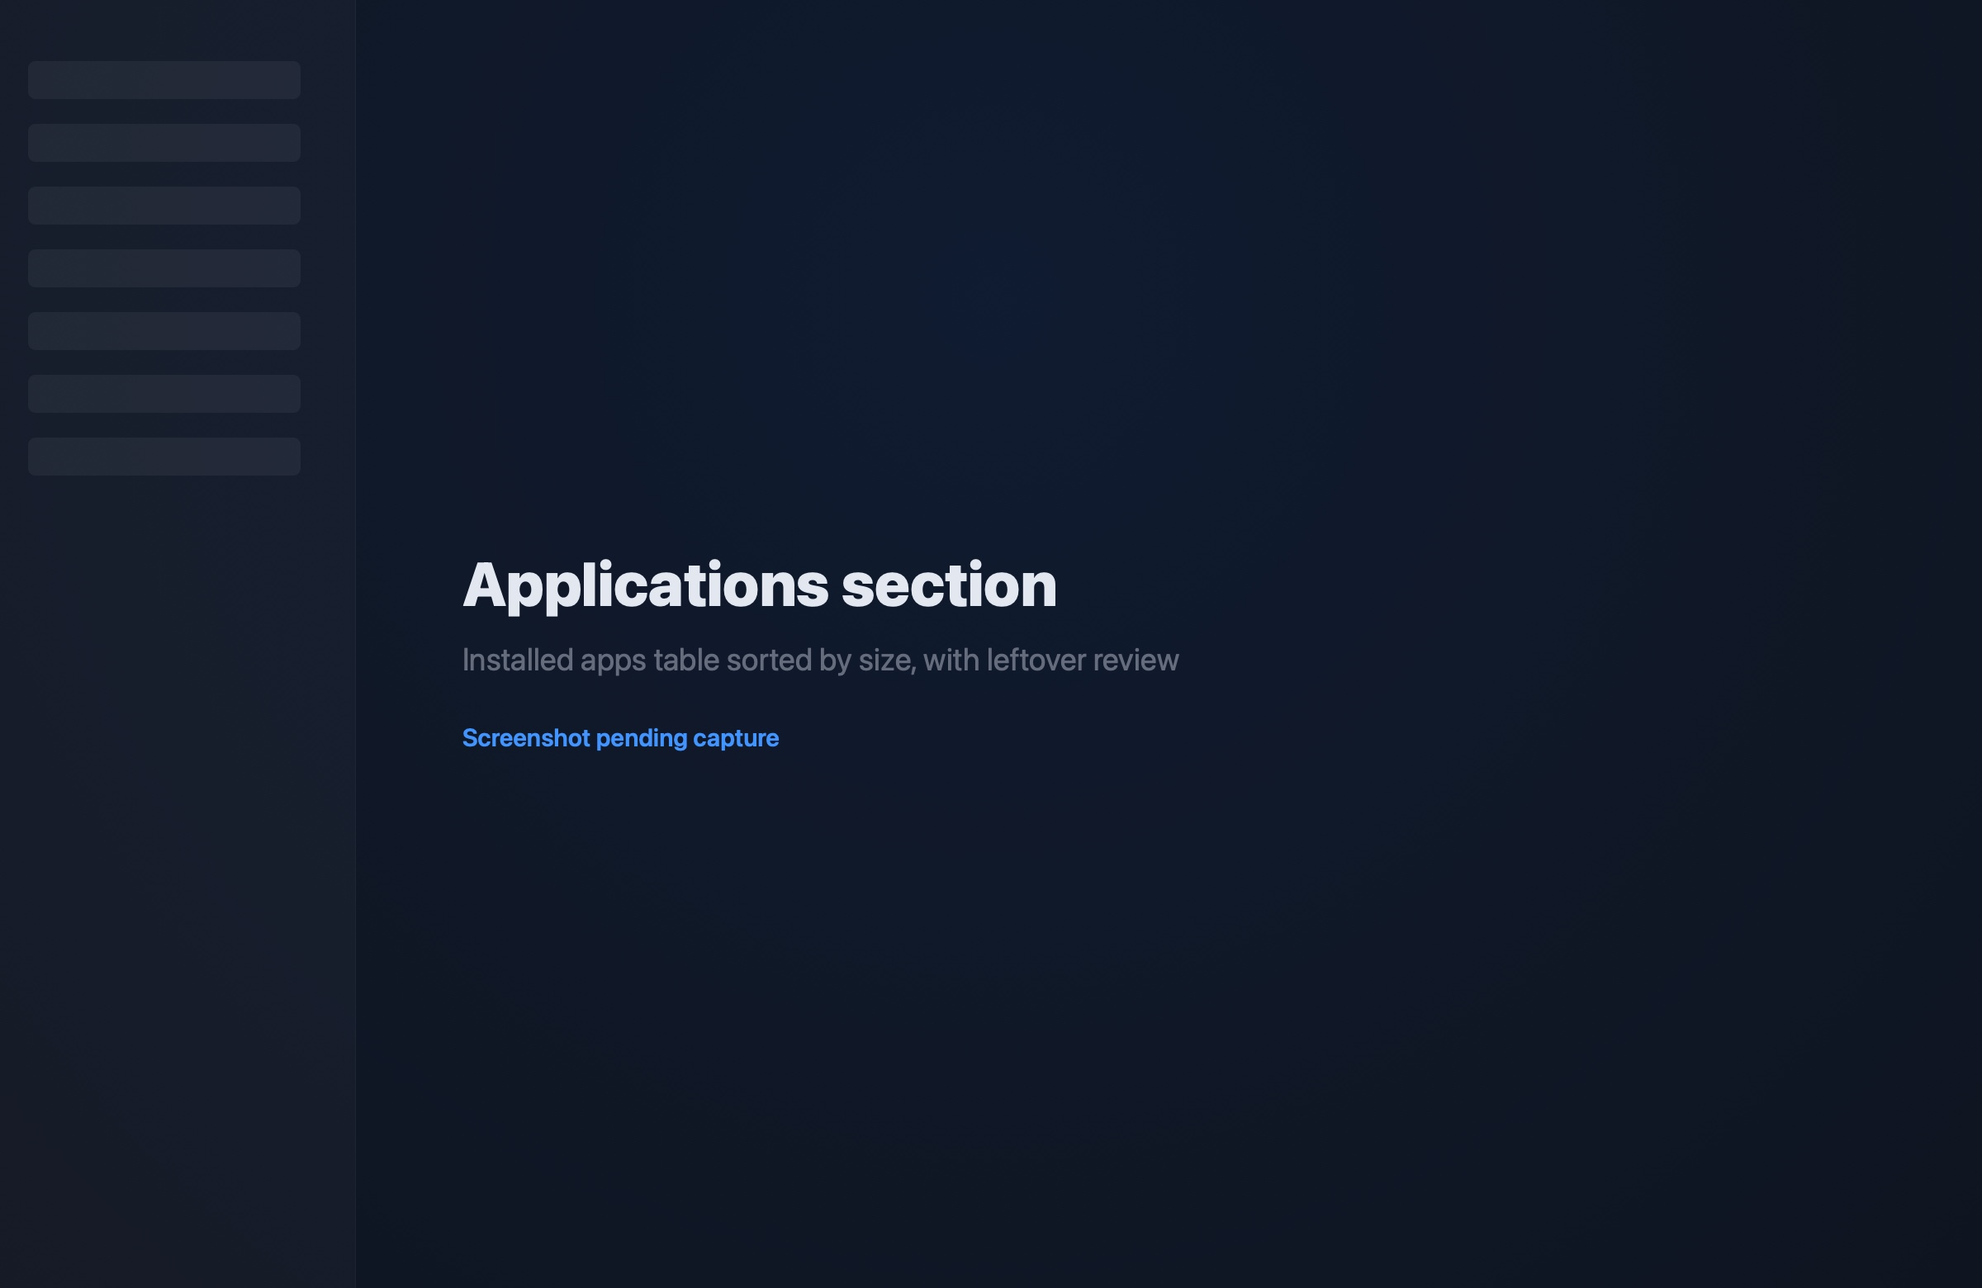
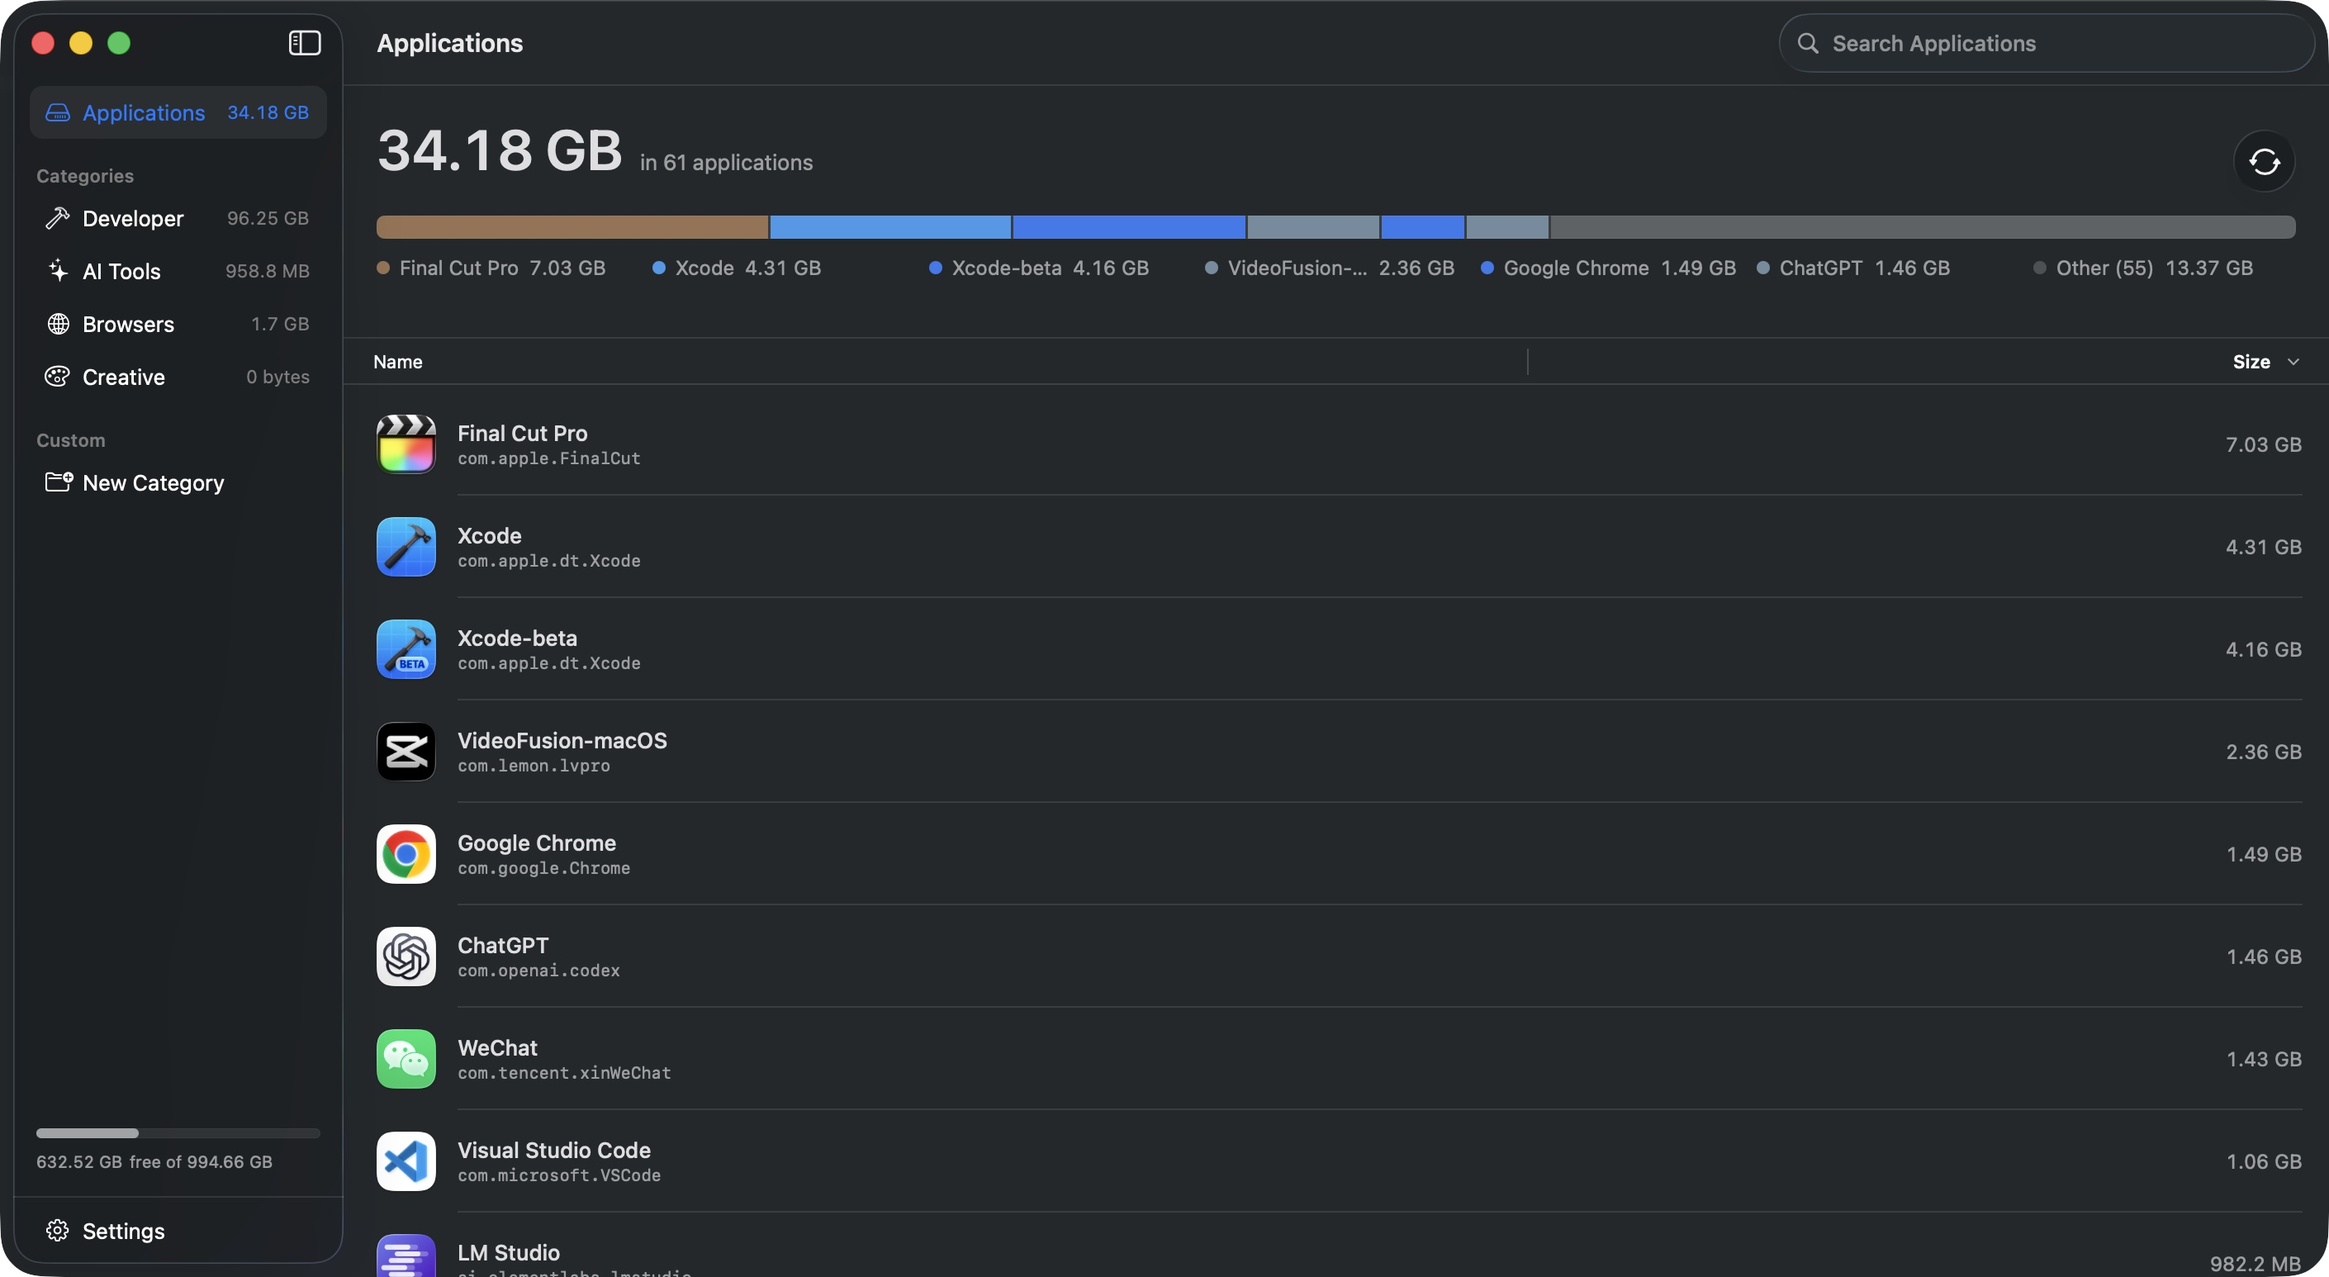
Put real screenshots in, and give the community a section
Four screenshots from the running app, in the order they matter:
Applications leads, then Developer, AI Tools and the category editor.

AI Tools is the one that earns its place. It shows Codex and Claude Code
session history found, measured and flagged red — paths that did not
exist eighteen months ago and are in no general cleaner's built-in list.
That is the difference from every other app in this category, and it is
worth a section of its own rather than a line in a feature grid.

The fake window chrome is gone. Every image already carries real traffic
lights and a real toolbar, so drawing our own above them gave each one
two title bars. `.window` is now a frame around a real window rather than
an imitation of one, which also looks better than the imitation did.

Applications moving to the hero left the uninstall copy without a picture,
so it now sits directly beneath the screenshot it describes, with its
list in two columns. It reads as an annotation of the image above it,
which is what it always was.

Community gets a section because the catalogue being public is a selling
point and was only ever mentioned in passing: three routes in — read it,
add a tool, report a bug — and the reason it is public at all.

The stat strip claimed 308 GB found and 234 GB of simulators, from a
different machine, directly above a screenshot showing neither. It now
cites what the images on this page actually show and invites the reader
[…]

diff --git a/web/index.html b/web/index.html
@@ -31,10 +31,11 @@
     </a>
     <div class="nav__links">
       <a href="#what">What it finds</a>
-      <a href="#uninstall">Uninstall</a>
+      <a href="#ai">AI Tools</a>
       <a href="#editions">Editions</a>
       <a href="#safety">Safety</a>
       <a href="#privacy">Privacy</a>
+      <a href="#community">Community</a>
       <a href="#pricing">Pricing</a>
     </div>
     <a class="btn btn--primary btn--sm" href="#download">Download</a>
@@ -73,11 +74,7 @@
 
   <div class="wrap hero__shot reveal">
     <div class="window">
-      <div class="window__bar">
-        <span class="window__dot"></span><span class="window__dot"></span><span class="window__dot"></span>
-        <span class="window__title">Easy Sweep — Developer</span>
-      </div>
-      <img src="/assets/shots/developer.jpg" alt="Easy Sweep showing the Developer section: a capacity bar split by size, with expandable rows for Derived Data, Device Support, simulators and toolchain caches." width="2400" height="1560">
+      <img src="/assets/shots/applications.jpg" alt="Easy Sweep's Applications section: 34.18 GB across 61 applications, with a capacity bar and a table of every installed app sorted by size." width="2820" height="1546">
     </div>
   </div>
 </header>
@@ -87,20 +84,20 @@
   <div class="wrap">
     <div class="stats reveal">
       <div class="stat">
-        <div class="stat__n">308 GB</div>
-        <p class="stat__l">Found on the Mac this app was written on</p>
-      </div>
-      <div class="stat">
-        <div class="stat__n">234 GB</div>
-        <p class="stat__l">Of that was simulators alone</p>
+        <div class="stat__n">99 GB</div>
+        <p class="stat__l">Found on the Mac in these screenshots &mdash; add up the sections yourself</p>
       </div>
       <div class="stat">
         <div class="stat__n">80+</div>
-        <p class="stat__l">Catalogued locations across four sections</p>
+        <p class="stat__l">Locations it knows about, every one of them listed publicly</p>
       </div>
       <div class="stat">
         <div class="stat__n">0</div>
         <p class="stat__l">Checkboxes ticked before you tick them</p>
+      </div>
+      <div class="stat">
+        <div class="stat__n">$0</div>
+        <p class="stat__l">To find all of it, and to clean every catalogued location</p>
       </div>
     </div>
   </div>
@@ -191,50 +188,90 @@
   </div>
 </section>
 
+<!-- ============ UNINSTALL (explains the hero shot above) ============ -->
+<section class="band" id="uninstall">
+  <div class="wrap">
+    <div class="sect-head sect-head--center">
+      <span class="eyebrow">Applications</span>
+      <h2>Uninstall an app, and the mess it leaves behind.</h2>
+      <p class="lede">
+        Every app above is one click from gone — along with its caches, containers,
+        preferences, saved state and launch agents. All of it goes to the Trash, so a
+        guess is always reversible.
+      </p>
+    </div>
+    <ul class="ticks ticks--cols reveal">
+      <li><strong>Three levels of confidence.</strong> A bundle identifier is certain. An exact filename is likely. A whole-word name match is only possible &mdash; and labelled as such.</li>
+      <li><strong>It won&rsquo;t take a neighbour&rsquo;s data.</strong> Word boundaries so &ldquo;Steam&rdquo; never claims SteamVR, a four-character minimum, and shared vendor folders are off limits.</li>
+      <li><strong>Inside <code>Containers</code>, only a bundle id counts.</strong> Matching an app&rsquo;s name against a reverse-DNS string is a coincidence, not evidence.</li>
+      <li><strong>System apps are refused outright.</strong> They can&rsquo;t be uninstalled, so listing your Mail data would be pointless and alarming.</li>
+    </ul>
+  </div>
+</section>
+
 <!-- ============ SHOWCASE ============ -->
-<section class="band">
+<section class="band band--sunken">
   <div class="wrap showcase">
 
-    <div class="show reveal" id="uninstall">
+    <div class="show reveal" id="developer">
       <div class="show__copy">
-        <span class="eyebrow">Applications</span>
-        <h2>Uninstall an app, and the mess it leaves behind.</h2>
+        <span class="eyebrow">Developer</span>
+        <h2>Xcode never tells you it kept all this.</h2>
         <p class="lede">
-          Drag an app in and Easy Sweep finds its caches, containers, preferences,
-          saved state and launch agents — then moves all of it to the Trash, so a
-          guess is always reversible.
+          Derived Data, device symbols, simulator devices, package caches for every
+          toolchain you have ever installed. It accumulates in folders Finder does not
+          show, and nothing ever clears it.
         </p>
         <ul class="ticks">
-          <li><strong>Three levels of confidence.</strong> A bundle identifier is certain. An exact filename is likely. A whole-word name match is only possible — and labelled as such.</li>
-          <li><strong>It won&rsquo;t take a neighbour&rsquo;s data.</strong> Word boundaries so &ldquo;Steam&rdquo; never claims SteamVR, a four-character minimum, and shared vendor folders are off limits.</li>
-          <li><strong>Inside <code>Containers</code>, only a bundle id counts.</strong> Matching an app&rsquo;s name against a reverse-DNS string is a coincidence, not evidence.</li>
-          <li><strong>System apps are refused outright.</strong> They can&rsquo;t be uninstalled, so listing your Mail data would be pointless and alarming.</li>
+          <li><strong>Simulators are usually the biggest thing you own.</strong> Whole device sets, with their installed apps and data, measured exactly.</li>
+          <li><strong>Deleted through <code>simctl</code>, never by removing folders</strong>, so CoreSimulator&rsquo;s registry stays consistent instead of pointing at devices that no longer exist.</li>
+          <li><strong>Irreversible items are flagged in red.</strong> Archives take the dSYMs you need to read crash reports from versions you already shipped.</li>
+          <li><strong>Expand anything</strong> to delete a single stale SDK version or one project&rsquo;s build output, rather than the lot.</li>
         </ul>
       </div>
       <div class="show__shot">
         <div class="window window--flat">
-          <div class="window__bar">
-            <span class="window__dot"></span><span class="window__dot"></span><span class="window__dot"></span>
-            <span class="window__title">Easy Sweep — Applications</span>
-          </div>
-          <img src="/assets/shots/applications.jpg" alt="The Applications section listing installed apps with their sizes, sorted largest first." width="2400" height="1560">
+          <img src="/assets/shots/developer.jpg" alt="The Developer section showing 96.25 GB, with Simulator Devices at 60.88 GB flagged in red, then iOS Device Support, Derived Data and package manager caches." width="2820" height="1546">
         </div>
       </div>
     </div>
 
-    <div class="show show--flip reveal">
+    <div class="show show--flip reveal" id="ai">
+      <div class="show__copy">
+        <span class="eyebrow">AI Tools</span>
+        <h2>The caches no other cleaner knows exist.</h2>
+        <p class="lede">
+          Claude Code, Codex, Cursor, Windsurf, Gemini CLI, Ollama, LM Studio. These
+          tools arrived faster than the cleaners did, and they are quietly some of the
+          largest things on a developer&rsquo;s Mac.
+        </p>
+        <ul class="ticks">
+          <li><strong>Session history is found, measured and flagged</strong> &mdash; per-project transcripts, backups, and the file history that powers rewinding an edit. Deleting it loses resume, search and undo, so it is marked and never touched automatically.</li>
+          <li><strong>Model weights you chose to download.</strong> Ollama pulls and LM Studio runtimes, usually gigabytes, listed by name.</li>
+          <li><strong>Credentials and memory files are never listed.</strong> Only caches, logs, scratch data and models.</li>
+          <li><strong>A general Mac cleaner sees none of this</strong> &mdash; these paths are days or weeks old and are not in anybody&rsquo;s built-in list.</li>
+        </ul>
+      </div>
+      <div class="show__shot">
+        <div class="window window--flat">
+          <img src="/assets/shots/ai-tools.jpg" alt="The AI Tools section: Windsurf browser downloads, Codex Session History and Claude Code Session History both flagged in red, plus Gemini CLI and Claude Code caches." width="2820" height="1546">
+        </div>
+      </div>
+    </div>
+
+    <div class="show reveal" id="custom">
       <div class="show__copy">
         <span class="eyebrow">Pro</span>
         <h2>Your own folders. Your own schedule.</h2>
         <p class="lede">
-          Every developer has a folder the catalogue will never know about — a render
+          Every developer has a folder the catalogue will never know about &mdash; a render
           output, a scratch directory, a build server&rsquo;s dumping ground. Custom
           Categories give it a section in the sidebar; Automation keeps it clear
           without you looking.
         </p>
         <ul class="ticks">
-          <li><strong>A section that&rsquo;s yours.</strong> Name it, pick an SF Symbol and a colour, point it at a root folder and add as many locations as you like.</li>
-          <li><strong>Rules that run themselves.</strong> Standing rules over a category, one folder, or a catalogued location — written from the <em>Automate</em> menu in the section they belong to.</li>
+          <li><strong>A section that&rsquo;s yours.</strong> Name it, pick an SF Symbol and a colour, point it at a root folder and tick the folders inside it to track.</li>
+          <li><strong>The root folder is never cleaned itself</strong> &mdash; only what you tick inside it, which is why choosing a broad folder is safe.</li>
           <li><strong>Rules are fenced to safe targets only.</strong> Archives, session history and simulator devices can never be reached by a rule, re-checked every time one runs.</li>
           <li><strong>Configure before you pay.</strong> The editor and the rules table open and work for everyone. Only pressing Save is gated.</li>
           <li><strong>Synced through iCloud.</strong> Your categories and rules follow you between Macs. Nothing is uploaded but the definitions.</li>
@@ -242,11 +279,7 @@
       </div>
       <div class="show__shot">
         <div class="window window--flat">
-          <div class="window__bar">
-            <span class="window__dot"></span><span class="window__dot"></span><span class="window__dot"></span>
-            <span class="window__title">Easy Sweep — Automation</span>
-          </div>
-          <img src="/assets/shots/automation.jpg" alt="The automation rules table, listing standing rules with their targets and schedules." width="2400" height="1560">
+          <img src="/assets/shots/custom.jpg" alt="The Custom Category editor: fields for a name, an SF Symbol icon, a main folder to watch, and the list of folders inside it to track." width="2820" height="1546">
         </div>
       </div>
     </div>
@@ -255,7 +288,7 @@
 </section>
 
 <!-- ============ EDITIONS ============ -->
-<section class="band band--sunken" id="editions">
+<section class="band" id="editions">
   <div class="wrap">
     <div class="sect-head sect-head--center">
       <span class="eyebrow">Two editions</span>
@@ -374,7 +407,7 @@
 </section>
 
 <!-- ============ SAFETY ============ -->
-<section class="band" id="safety">
+<section class="band band--sunken" id="safety">
   <div class="wrap">
     <div class="sect-head sect-head--center">
       <span class="eyebrow">Safety</span>
@@ -448,7 +481,7 @@
 </section>
 
 <!-- ============ PRIVACY ============ -->
-<section class="band band--sunken" id="privacy">
+<section class="band" id="privacy">
   <div class="wrap">
     <div class="sect-head sect-head--center">
       <span class="eyebrow">Privacy</span>
@@ -492,6 +525,49 @@
       you. There is no privacy setting to find because there is nothing collected to
       turn off. The <a href="/privacy.html">privacy policy</a> spells out every
       request the app can make, and it is a short page.
+    </div>
+  </div>
+</section>
+
+<!-- ============ COMMUNITY ============ -->
+<section class="band band--sunken" id="community">
+  <div class="wrap">
+    <div class="sect-head sect-head--center">
+      <span class="eyebrow">Community</span>
+      <h2>The list of what it cleans is public. Add to it.</h2>
+      <p class="lede">
+        Every path Easy Sweep touches lives in one repository on GitHub, under the MIT
+        licence &mdash; all four categories, every location, nothing hidden. You can read it
+        before you install anything, and you can extend it. New tools appear faster
+        than any single developer can catalogue them, which is exactly why the list
+        isn&rsquo;t locked inside the app.
+      </p>
+    </div>
+
+    <div class="routes reveal">
+      <div class="route">
+        <h3>Read the catalogue</h3>
+        <p>Four JSON files naming every folder the app scans, with the reason each one is safe to clear. This is the honest answer to &ldquo;what will it delete?&rdquo; &mdash; not a promise, a file you can check.</p>
+        <a class="btn btn--ghost" href="https://github.com/TouchBitsInc/easy-sweep-mac" rel="noopener">Browse on GitHub</a>
+      </div>
+      <div class="route">
+        <h3>Add a tool it&rsquo;s missing</h3>
+        <p>Adding support for a tool is one entry in one file &mdash; a path, a name, a short description. No app code to touch and no build to run. Pull requests are welcome, and the tests will tell you if an entry is malformed.</p>
+        <a class="btn btn--ghost" href="https://github.com/TouchBitsInc/easy-sweep-mac/blob/main/CONTRIBUTING.md" rel="noopener">How to contribute</a>
+      </div>
+      <div class="route">
+        <h3>Report a bug</h3>
+        <p>Issues are public, so someone else hitting the same thing can say so, and you can see what has already been fixed before writing anything. Licence problems are better by email.</p>
+        <a class="btn btn--ghost" href="https://github.com/TouchBitsInc/easy-sweep-mac/issues" rel="noopener">Open an issue</a>
+      </div>
+    </div>
+
+    <div class="callout callout--invite reveal">
+      <strong>Why the list is public.</strong> A cleaner is only as
+      trustworthy as its list of what to delete, and a list you cannot read is one you
+      have to take on faith. Publishing it means the riskiest part of Easy Sweep is
+      also the part anyone can audit &mdash; and the part that gets better the more people
+      use it.
     </div>
   </div>
 </section>

diff --git a/web/css/styles.css b/web/css/styles.css
@@ -334,13 +334,15 @@ code, .mono { font-family: var(--mono); font-size: .88em; }
 /* ---------- macOS window frame ---------- */
 
 .window {
-  border: 1px solid var(--border-lit);
+  border: 1px solid rgba(255,255,255,.10);
   border-radius: var(--r-lg);
   overflow: hidden;
   background: var(--surface);
   box-shadow: var(--shadow-lg);
 }
 
+/* Kept for any future image that has no chrome of its own. The app
+   screenshots include real traffic lights, so they use `.window` alone. */
 .window__bar {
   display: flex;
   align-items: center;
@@ -528,6 +530,29 @@ code, .mono { font-family: var(--mono); font-size: .88em; }
   transform: rotate(-45deg);
 }
 .ticks li strong { color: var(--text); font-weight: 600; }
+
+/* Used where the list stands alone rather than beside a screenshot. */
+.ticks--cols { grid-template-columns: 1fr 1fr; gap: 16px 44px; }
+
+/* Community: three routes in, side by side. */
+.routes {
+  display: grid;
+  grid-template-columns: repeat(auto-fit, minmax(260px, 1fr));
+  gap: 20px;
+}
+.route {
+  display: flex;
+  flex-direction: column;
+  padding: 28px;
+  border: 1px solid var(--border);
+  border-radius: var(--r-lg);
+  background: linear-gradient(180deg, var(--surface), var(--bg-2));
+  transition: transform .22s ease, border-color .22s ease;
+}
+.route:hover { transform: translateY(-4px); border-color: var(--border-lit); }
+.route h3 { margin-bottom: 10px; }
+.route p { color: var(--text-dim); font-size: .96rem; flex: 1; }
+.route .btn { margin-top: 22px; }
 
 /* ---------- Editions comparison ---------- */
 
